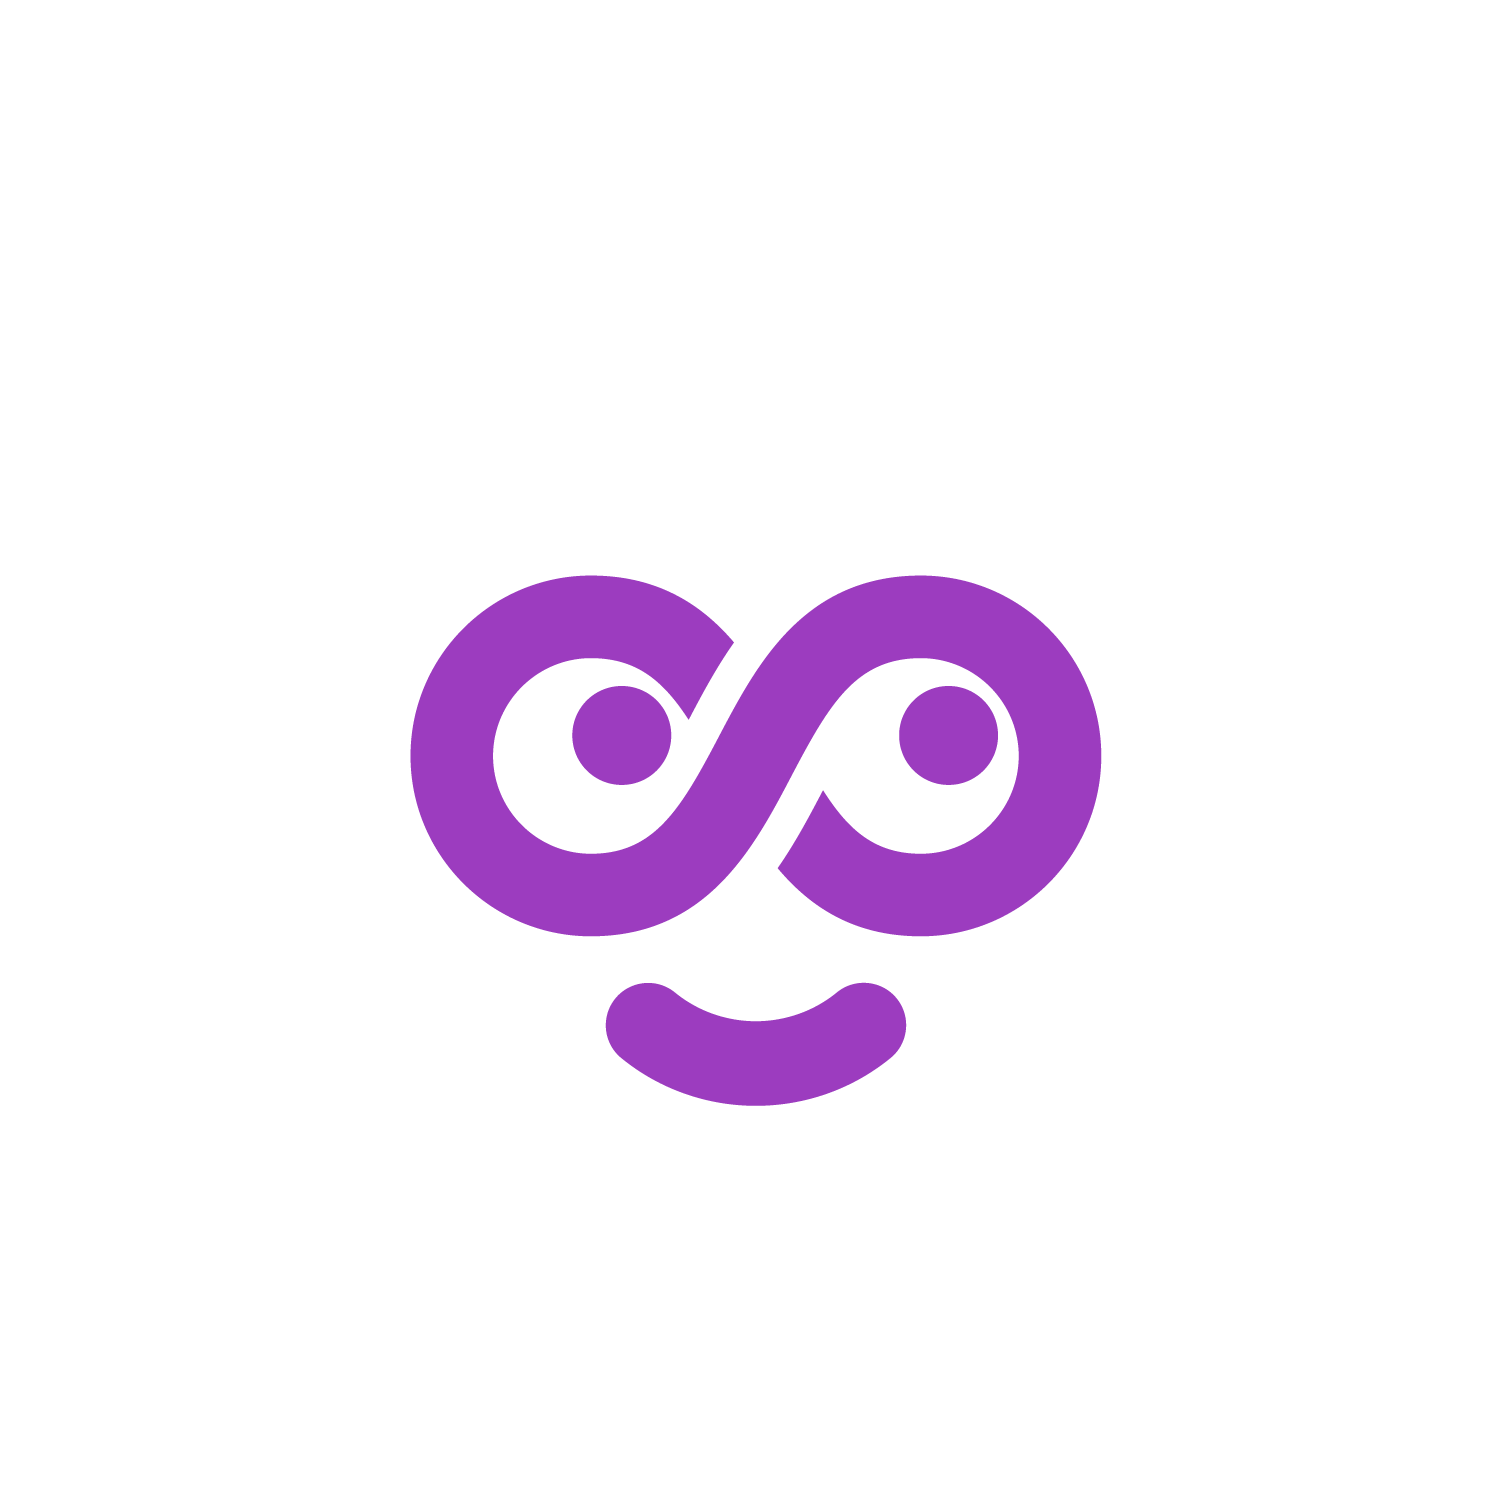
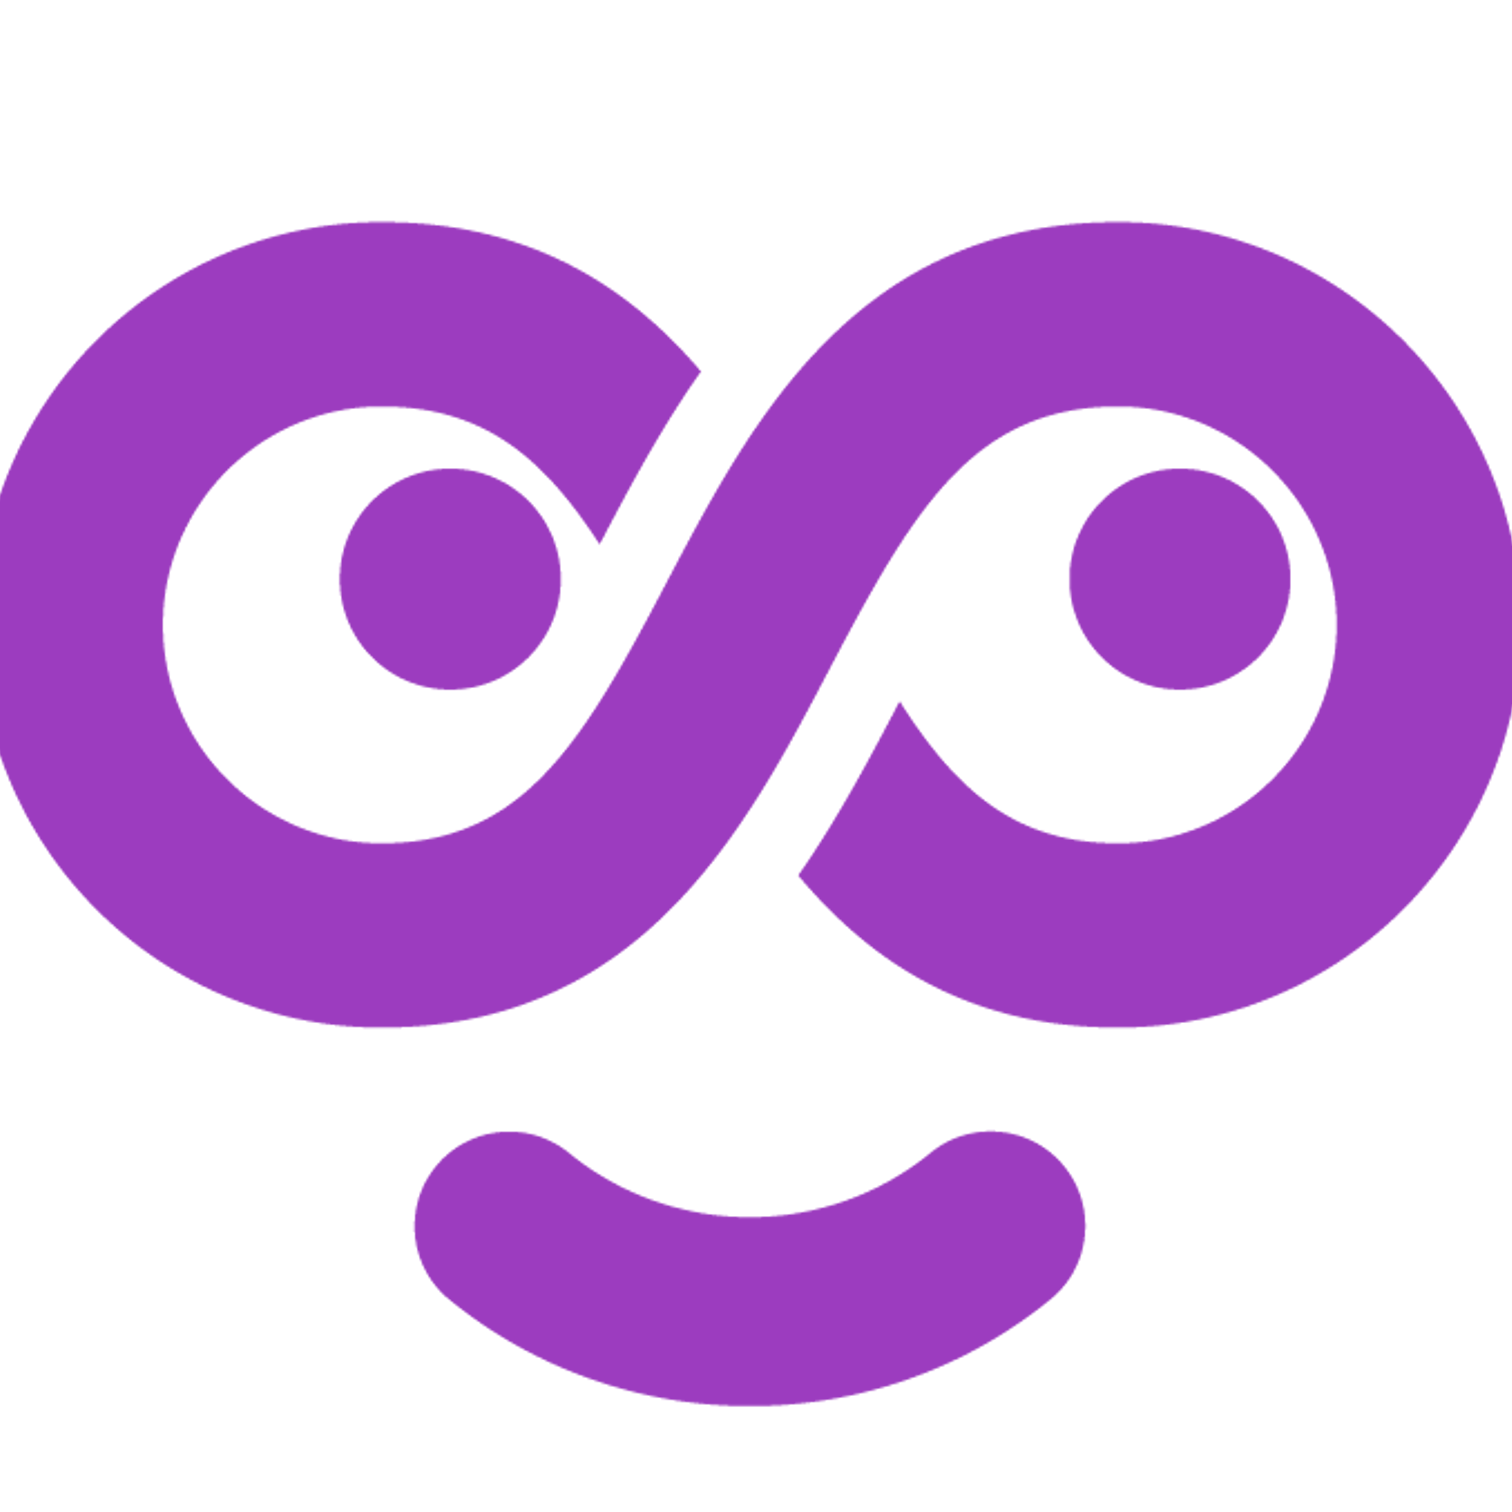
emoji done

diff --git a/index.html b/index.html
@@ -161,86 +161,98 @@
                                     <div id="student-work-input" class="student-work-input-area" contenteditable="true" role="textbox" aria-multiline="true" data-placeholder="Type here..." aria-label="Text"></div>
                                     <div class="student-work-emoji-bar" id="student-work-emoji-bar">
                                         <button class="student-work-icon-btn student-work-emoji-toggle" id="student-work-emoji-toggle" type="button" aria-label="Emoji" aria-expanded="false" aria-controls="student-work-emoji-picker">
-                                            <img class="student-work-emoji" src="Media/emoji/scio_sasek.png" alt="">
+                                            <img class="student-work-emoji" src="Media/emoji/scio_decko_happy.png" alt="">
                                         </button>
                                         <div class="student-work-emoji-picker" id="student-work-emoji-picker" aria-hidden="true">
                                             <button class="student-work-emoji-btn" type="button" aria-label="scio_decko_happy">
                                                 <img class="student-work-emoji" src="Media/emoji/scio_decko_happy.png" alt="">
                                             </button>
-                                            <button class="student-work-emoji-btn" type="button" aria-label="dopln_02">
-                                                <img class="student-work-emoji" src="Media/emoji/dopln_02.png" alt="">
+                                            <button class="student-work-emoji-btn" type="button" aria-label="scio_deda_usmev">
+                                                <img class="student-work-emoji" src="Media/emoji/scio_deda_usmev.png" alt="">
                                             </button>
-                                            <button class="student-work-emoji-btn" type="button" aria-label="dopln_03">
-                                                <img class="student-work-emoji" src="Media/emoji/dopln_03.png" alt="">
+                                            <button class="student-work-emoji-btn" type="button" aria-label="scio_duch">
+                                                <img class="student-work-emoji" src="Media/emoji/scio_duch.png" alt="">
                                             </button>
-                                            <button class="student-work-emoji-btn" type="button" aria-label="dopln_04">
-                                                <img class="student-work-emoji" src="Media/emoji/dopln_04.png" alt="">
+                                            <button class="student-work-emoji-btn" type="button" aria-label="scio_happy">
+                                                <img class="student-work-emoji" src="Media/emoji/scio_happy.png" alt="">
                                             </button>
-                                            <button class="student-work-emoji-btn" type="button" aria-label="dopln_05">
-                                                <img class="student-work-emoji" src="Media/emoji/dopln_05.png" alt="">
+                                            <button class="student-work-emoji-btn" type="button" aria-label="scio_hodne_happy">
+                                                <img class="student-work-emoji" src="Media/emoji/scio_hodne_happy.png" alt="">
                                             </button>
-                                            <button class="student-work-emoji-btn" type="button" aria-label="dopln_06">
-                                                <img class="student-work-emoji" src="Media/emoji/dopln_06.png" alt="">
+                                            <button class="student-work-emoji-btn" type="button" aria-label="scio_holka_usmev">
+                                                <img class="student-work-emoji" src="Media/emoji/scio_holka_usmev.png" alt="">
                                             </button>
-                                            <button class="student-work-emoji-btn" type="button" aria-label="dopln_07">
-                                                <img class="student-work-emoji" src="Media/emoji/dopln_07.png" alt="">
+                                            <button class="student-work-emoji-btn" type="button" aria-label="scio_jelen">
+                                                <img class="student-work-emoji" src="Media/emoji/scio_jelen.png" alt="">
                                             </button>
-                                            <button class="student-work-emoji-btn" type="button" aria-label="dopln_08">
-                                                <img class="student-work-emoji" src="Media/emoji/dopln_08.png" alt="">
+                                            <button class="student-work-emoji-btn" type="button" aria-label="scio_klobouk_usmev">
+                                                <img class="student-work-emoji" src="Media/emoji/scio_klobouk_usmev.png" alt="">
                                             </button>
-                                            <button class="student-work-emoji-btn" type="button" aria-label="dopln_09">
-                                                <img class="student-work-emoji" src="Media/emoji/dopln_09.png" alt="">
+                                            <button class="student-work-emoji-btn" type="button" aria-label="scio_kluk_usmev">
+                                                <img class="student-work-emoji" src="Media/emoji/scio_kluk_usmev.png" alt="">
                                             </button>
-                                            <button class="student-work-emoji-btn" type="button" aria-label="dopln_10">
-                                                <img class="student-work-emoji" src="Media/emoji/dopln_10.png" alt="">
+                                            <button class="student-work-emoji-btn" type="button" aria-label="scio_kocka_happy">
+                                                <img class="student-work-emoji" src="Media/emoji/scio_kocka_happy.png" alt="">
                                             </button>
-                                            <button class="student-work-emoji-btn" type="button" aria-label="dopln_11">
-                                                <img class="student-work-emoji" src="Media/emoji/dopln_11.png" alt="">
+                                            <button class="student-work-emoji-btn" type="button" aria-label="scio_kral_usmev">
+                                                <img class="student-work-emoji" src="Media/emoji/scio_kral_usmev.png" alt="">
                                             </button>
-                                            <button class="student-work-emoji-btn" type="button" aria-label="dopln_12">
-                                                <img class="student-work-emoji" src="Media/emoji/dopln_12.png" alt="">
+                                            <button class="student-work-emoji-btn" type="button" aria-label="scio_kuchar_ujizdi">
+                                                <img class="student-work-emoji" src="Media/emoji/scio_kuchar_ujizdi.png" alt="">
                                             </button>
-                                            <button class="student-work-emoji-btn" type="button" aria-label="dopln_13">
-                                                <img class="student-work-emoji" src="Media/emoji/dopln_13.png" alt="">
+                                            <button class="student-work-emoji-btn" type="button" aria-label="scio_liska">
+                                                <img class="student-work-emoji" src="Media/emoji/scio_liska.png" alt="">
                                             </button>
-                                            <button class="student-work-emoji-btn" type="button" aria-label="dopln_14">
-                                                <img class="student-work-emoji" src="Media/emoji/dopln_14.png" alt="">
+                                            <button class="student-work-emoji-btn" type="button" aria-label="scio_list_happy">
+                                                <img class="student-work-emoji" src="Media/emoji/scio_list_happy.png" alt="">
                                             </button>
-                                            <button class="student-work-emoji-btn" type="button" aria-label="dopln_15">
-                                                <img class="student-work-emoji" src="Media/emoji/dopln_15.png" alt="">
+                                            <button class="student-work-emoji-btn" type="button" aria-label="scio_mraz">
+                                                <img class="student-work-emoji" src="Media/emoji/scio_mraz.png" alt="">
                                             </button>
-                                            <button class="student-work-emoji-btn" type="button" aria-label="dopln_16">
-                                                <img class="student-work-emoji" src="Media/emoji/dopln_16.png" alt="">
+                                            <button class="student-work-emoji-btn" type="button" aria-label="scio_neco_divny">
+                                                <img class="student-work-emoji" src="Media/emoji/scio_neco_divny.png" alt="">
                                             </button>
-                                            <button class="student-work-emoji-btn" type="button" aria-label="dopln_17">
-                                                <img class="student-work-emoji" src="Media/emoji/dopln_17.png" alt="">
+                                            <button class="student-work-emoji-btn" type="button" aria-label="scio_panacek">
+                                                <img class="student-work-emoji" src="Media/emoji/scio_panacek.png" alt="">
                                             </button>
-                                            <button class="student-work-emoji-btn" type="button" aria-label="dopln_18">
-                                                <img class="student-work-emoji" src="Media/emoji/dopln_18.png" alt="">
+                                            <button class="student-work-emoji-btn" type="button" aria-label="scio_party_usmev">
+                                                <img class="student-work-emoji" src="Media/emoji/scio_party_usmev.png" alt="">
                                             </button>
-                                            <button class="student-work-emoji-btn" type="button" aria-label="dopln_19">
-                                                <img class="student-work-emoji" src="Media/emoji/dopln_19.png" alt="">
+                                            <button class="student-work-emoji-btn" type="button" aria-label="scio_pavucina">
+                                                <img class="student-work-emoji" src="Media/emoji/scio_pavucina.png" alt="">
                                             </button>
-                                            <button class="student-work-emoji-btn" type="button" aria-label="dopln_20">
-                                                <img class="student-work-emoji" src="Media/emoji/dopln_20.png" alt="">
+                                            <button class="student-work-emoji-btn" type="button" aria-label="scio_pixel_usmev">
+                                                <img class="student-work-emoji" src="Media/emoji/scio_pixel_usmev.png" alt="">
                                             </button>
-                                            <button class="student-work-emoji-btn" type="button" aria-label="dopln_21">
-                                                <img class="student-work-emoji" src="Media/emoji/dopln_21.png" alt="">
+                                            <button class="student-work-emoji-btn" type="button" aria-label="scio_prekvapeny">
+                                                <img class="student-work-emoji" src="Media/emoji/scio_prekvapeny.png" alt="">
                                             </button>
-                                            <button class="student-work-emoji-btn" type="button" aria-label="dopln_22">
-                                                <img class="student-work-emoji" src="Media/emoji/dopln_22.png" alt="">
+                                            <button class="student-work-emoji-btn" type="button" aria-label="scio_prekvapeny_malovani">
+                                                <img class="student-work-emoji" src="Media/emoji/scio_prekvapeny_malovani.png" alt="">
                                             </button>
-                                            <button class="student-work-emoji-btn" type="button" aria-label="dopln_23">
-                                                <img class="student-work-emoji" src="Media/emoji/dopln_23.png" alt="">
+                                            <button class="student-work-emoji-btn" type="button" aria-label="scio_robutek">
+                                                <img class="student-work-emoji" src="Media/emoji/scio_robutek.png" alt="">
                                             </button>
-                                            <button class="student-work-emoji-btn" type="button" aria-label="dopln_24">
-                                                <img class="student-work-emoji" src="Media/emoji/dopln_24.png" alt="">
+                                            <button class="student-work-emoji-btn" type="button" aria-label="scio_sasek">
+                                                <img class="student-work-emoji" src="Media/emoji/scio_sasek.png" alt="">
                                             </button>
-                                            <button class="student-work-emoji-btn" type="button" aria-label="dopln_25">
-                                                <img class="student-work-emoji" src="Media/emoji/dopln_25.png" alt="">
+                                            <button class="student-work-emoji-btn" type="button" aria-label="scio_smeje">
+                                                <img class="student-work-emoji" src="Media/emoji/scio_smeje.png" alt="">
                                             </button>
-                                            <button class="student-work-emoji-btn" type="button" aria-label="dopln_26">
-                                                <img class="student-work-emoji" src="Media/emoji/dopln_26.png" alt="">
+                                            <button class="student-work-emoji-btn" type="button" aria-label="scio_sova">
+                                                <img class="student-work-emoji" src="Media/emoji/scio_sova.png" alt="">
+                                            </button>
+                                            <button class="student-work-emoji-btn" type="button" aria-label="scio_trubka">
+                                                <img class="student-work-emoji" src="Media/emoji/scio_trubka.png" alt="">
+                                            </button>
+                                            <button class="student-work-emoji-btn" type="button" aria-label="scio_tykadla">
+                                                <img class="student-work-emoji" src="Media/emoji/scio_tykadla.png" alt="">
+                                            </button>
+                                            <button class="student-work-emoji-btn" type="button" aria-label="scio_ujizdi">
+                                                <img class="student-work-emoji" src="Media/emoji/scio_ujizdi.png" alt="">
+                                            </button>
+                                            <button class="student-work-emoji-btn" type="button" aria-label="scio_zirafa">
+                                                <img class="student-work-emoji" src="Media/emoji/scio_zirafa.png" alt="">
                                             </button>
                                         </div>
                                     </div>

diff --git a/Style/style.css b/Style/style.css
@@ -1075,8 +1075,8 @@ body.theme-dark .student-work-input {
 }
 
 .student-work-emoji {
-    width: 1em;
-    height: 1em;
+    width: 2em;
+    height: 2em;
     display: inline-block;
     vertical-align: -0.12em;
     pointer-events: none;
